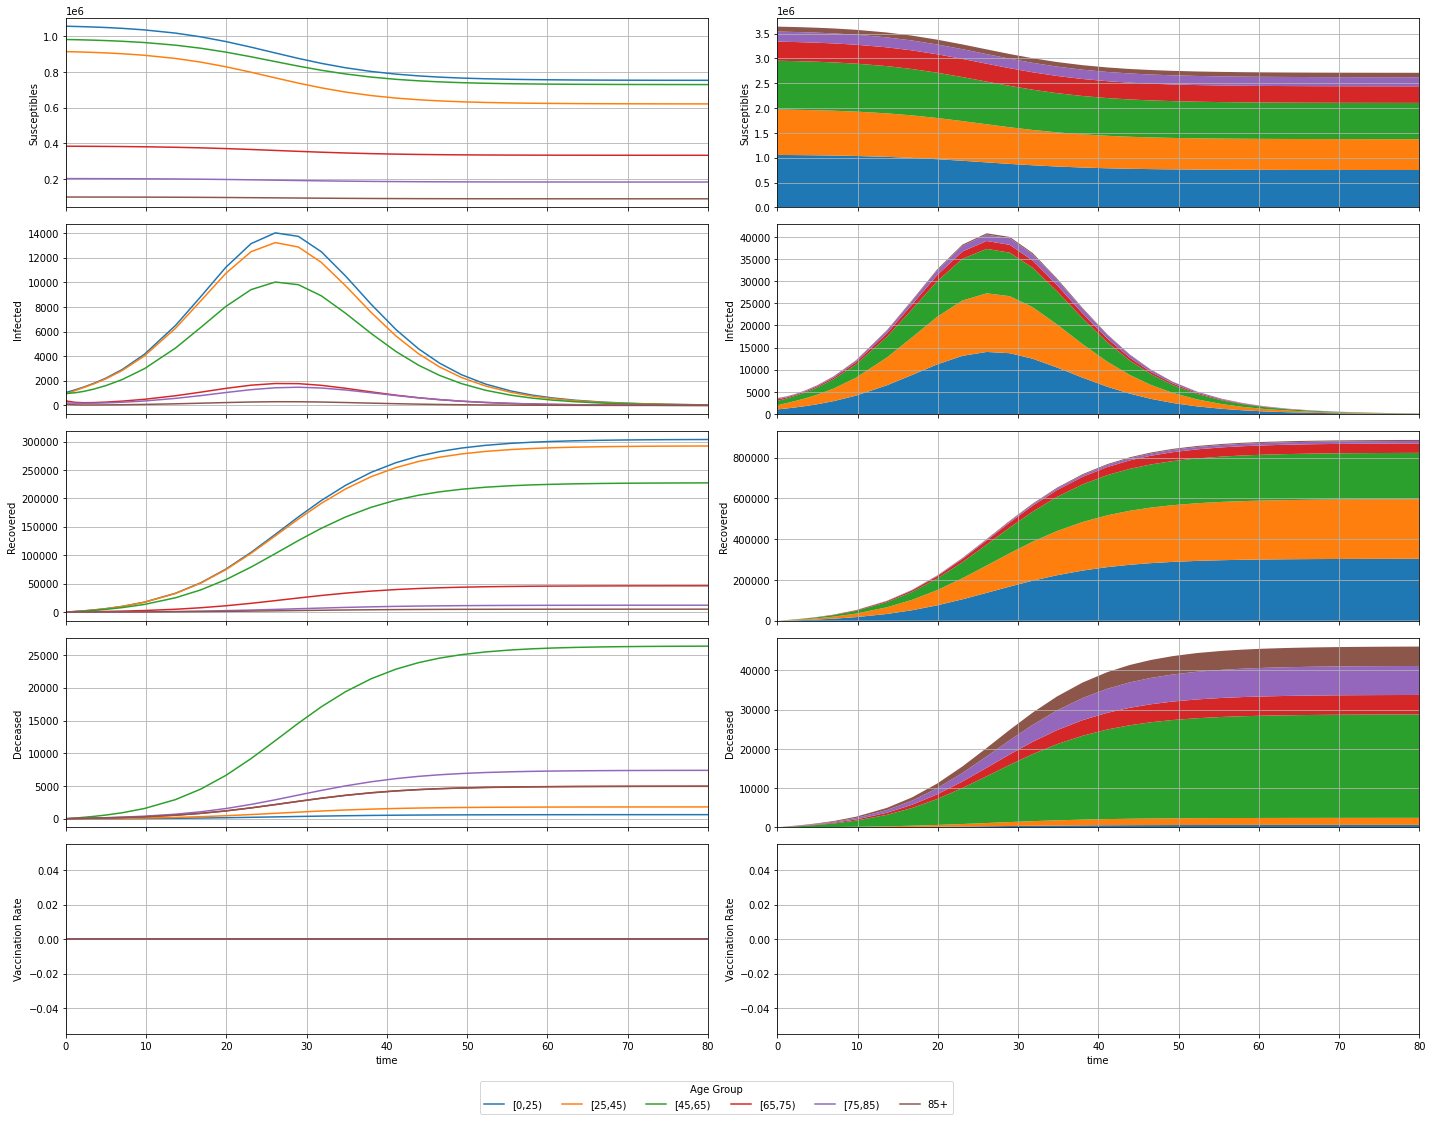
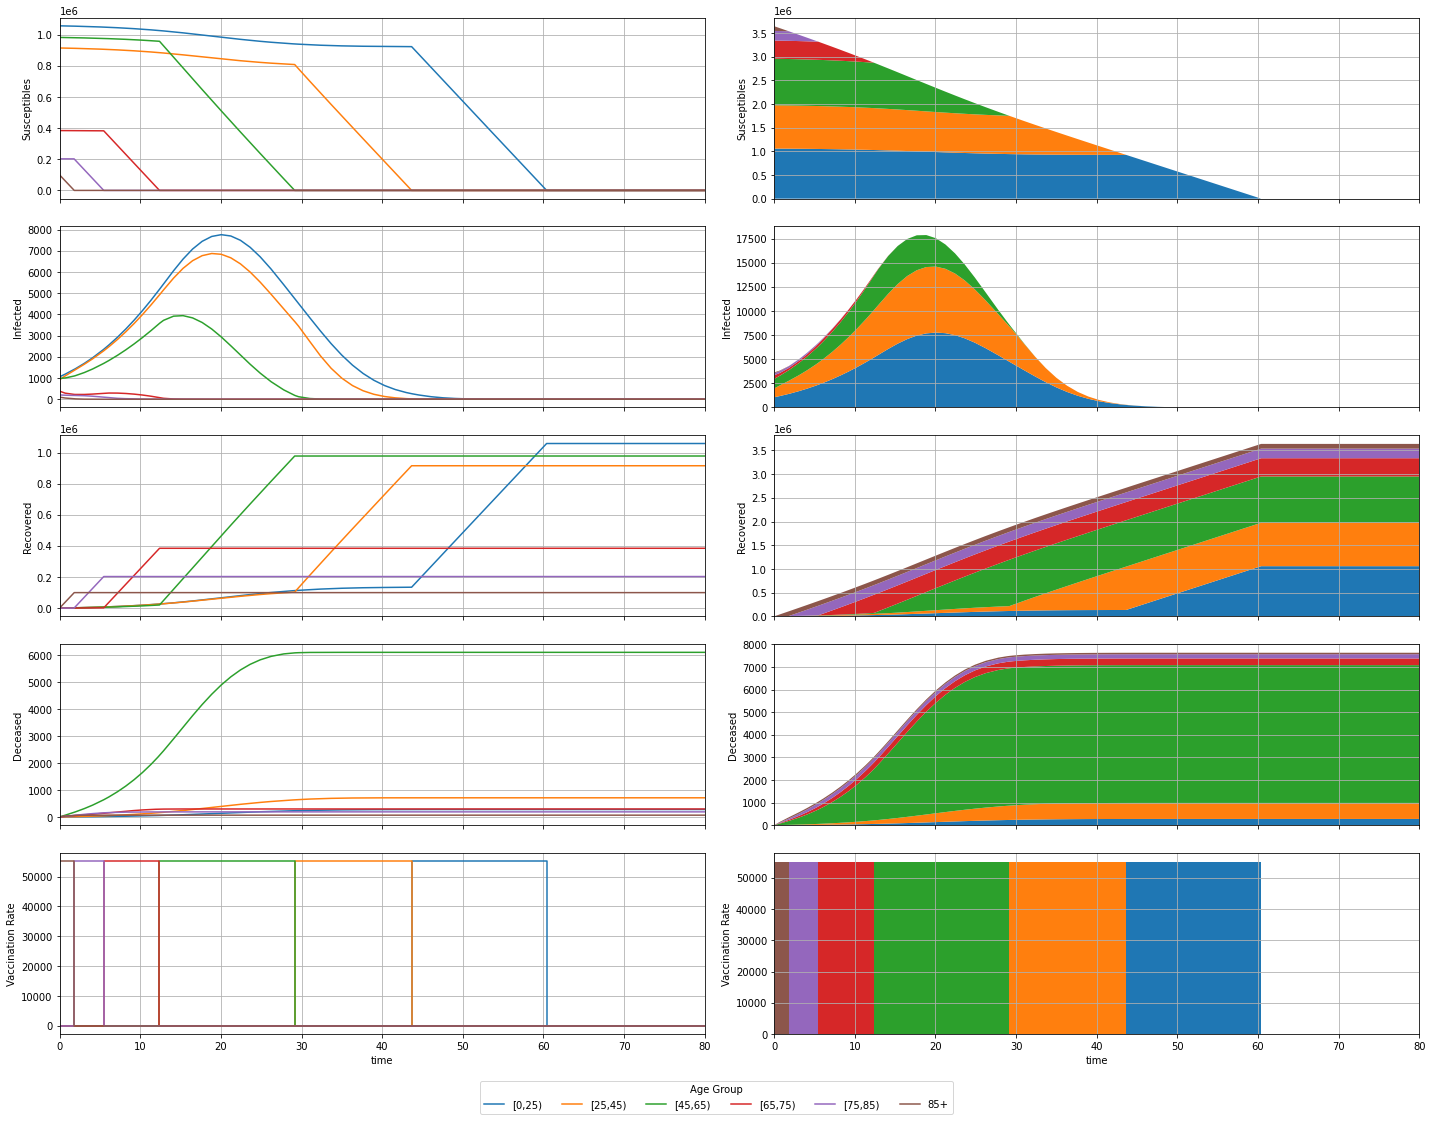
Convert README.ipynb

diff --git a/README.md b/README.md
@@ -71,95 +71,35 @@ $$
 
 ```python
 import numpy as np
-import csv
+from helpers import *
 
-P = np.array([1058304,915796,983789,384803,203035,99516])
+P, I_0, S_0, R_0, D_0, l, C, g_R, g_D, u_max = definitions()
+y_0 = wrap(S_0, I_0, R_0, D_0)
 n_a = len(P)
 
-I_0 = 0.1/100*P
-S_0 = P - I_0
-R_0 = np.zeros(n_a)
-D_0 = np.zeros(n_a)
+t_span = [0, 80]
 
-l   = np.repeat(0.05, n_a)
-g_R = np.array([0.7657411   ,0.7842402  ,0.8012127 ,0.9018488 ,0.2802379 ,0.5864928 ])
-g_D = np.array([0.0015683025,0.004833996,0.09288585,0.09685946,0.17079121,0.56594825])
+def system_continuous(t, y, u, u_max, l, C, g_R, g_D):
+  S, I, R, D = unwrap(y)
+  dSdt = - l * S * (C @ I) - u(t, y, u_max)
+  dIdt = l * S * (C @ I) - (g_R + g_D) * I
+  dRdt = g_R * I + u(t, y, u_max)
+  dDdt = g_D * I
+  return wrap(dSdt, dIdt, dRdt, dDdt)
 
-with open("./contact.csv", 'r') as f:
-  reader = csv.reader(f)
-  data = list(reader)
-C = np.array(data, dtype=float)
+def system_discrete(t, y, u, u_max, l, C, g_R, g_D):
+  S, I, R, D = unwrap(y)
+  S_ = S - l * S * (C @ I) - u(t, y, u_max)
+  I_ = I + l * S * (C @ I) - (g_R + g_D) * I
+  R_ = R + g_R * I + u(t, y, u_max)
+  D_ = D + g_D * I
+  return wrap(S_, I_, R_, D_)
 
-U_max = 55191
-
-groups = ['[0,25)', '[25,45)', '[45,65)', '[65,75)', '[75,85)', '85+']
-
-P_total = sum(P)
-print(f'Population Total: {P_total:.0f}')
+print(f'Population Total: {sum(P):.0f}')
 ```
 
     Population Total: 3645243
 
-
-### Helpers
-
-
-```python
-import matplotlib.pyplot as plt
-
-def unwrap(y):
-  S = y[0*n_a:1*n_a]
-  I = y[1*n_a:2*n_a]
-  R = y[2*n_a:3*n_a]
-  D = y[3*n_a:4*n_a]
-  return S, I, R, D
-
-def wrap(S, I, R, D):
-  return np.concatenate([S, I, R, D])
-
-def plot(t, y, u, discrete=False):
-  S, I, R, D = unwrap(y)
-
-  fig, ax = plt.subplots(5, 2, facecolor=(1,1,1,1), figsize=(20,15), sharex=True)
-
-  if discrete:
-    ds = 'steps-post'
-    step = 'post'
-  else:
-    ds = 'default'
-    step = None
-
-  for i in range(n_a):
-    ax[0,0].plot(t, S[i], drawstyle=ds)
-    ax[1,0].plot(t, I[i], drawstyle=ds)
-    ax[2,0].plot(t, R[i], drawstyle=ds)
-    ax[3,0].plot(t, D[i], drawstyle=ds)
-    ax[4,0].plot(t, u[i], drawstyle=ds)
-
-  ax[0,1].stackplot(t, S, step=step)
-  ax[1,1].stackplot(t, I, step=step)
-  ax[2,1].stackplot(t, R, step=step)
-  ax[3,1].stackplot(t, D, step=step)
-  ax[4,1].stackplot(t, u, step=step)
-
-  for i in range(2):
-    ax[0,i].set_ylabel('Susceptibles')
-    ax[1,i].set_ylabel('Infected')
-    ax[2,i].set_ylabel('Recovered')
-    ax[3,i].set_ylabel('Deceased')
-    ax[4,i].set_ylabel('Vaccination Rate')
-
-  for ax_ in ax.flatten():
-    ax_.set_xlim((t[0],t[-1]))
-    ax_.grid()
-
-  for ax_ in ax[-1,:]:
-    ax_.set_xlabel('time')
-
-  fig.tight_layout()
-  fig.legend(groups, title='Age Group',ncols=n_a, loc="upper center", bbox_to_anchor=(0.5, 0))
-  plt.show()
-```
 
 ## Continous Simulation
 
@@ -169,40 +109,23 @@ def plot(t, y, u, discrete=False):
 ```python
 from scipy.integrate import solve_ivp
 
-def u(t, y):
+def control(t, y, max):
   return np.zeros(n_a)
 
-def system(t, y, l, C, g_R, g_D):
-  S, I, R, D = unwrap(y)
-  dSdt = - l * S * (C @ I) - u(t, y)
-  dIdt = l * S * (C @ I) - (g_R + g_D) * I
-  dRdt = g_R * I + u(t, y)
-  dDdt = g_D * I
-  return wrap(dSdt, dIdt, dRdt, dDdt)
-
-t_span = [0, 80]
-y_0 = wrap(S_0, I_0, R_0, D_0)
-
-sol = solve_ivp(system, t_span, y_0, args=(l, C, g_R, g_D))
+sol = solve_ivp(system_continuous, t_span, y_0, args=(control, u_max, l, C, g_R, g_D))
 assert(sol.success)
 
 t = sol.t
 y = sol.y
 S, I, R, D = unwrap(y)
+u = recover_control(t, y, control, u_max)
 
-U = np.zeros(S.shape)
-for i, t_ in enumerate(t):
-  y_ = y[:,i]
-  U[:,i] = u(t_, y_)
-
-plot(t, y, U)
-
-D_total = sum(D[:,-1])
-print(f'Deceased Total: {D_total:.0f}')
+plot(t, y, u)
+print(f'Deceased Total: {sum(D[:,-1]):.0f}')
 ```
 
 
-![png](README_files/README_12_0.png)
+![png](README_files/README_10_0.png)
 
 
     Deceased Total: 46089
@@ -214,46 +137,29 @@ print(f'Deceased Total: {D_total:.0f}')
 ```python
 from scipy.integrate import solve_ivp
 
-def u(t, y):
+def control(t, y, u_max):
   S, I, R, D = unwrap(y)
   u = np.zeros(n_a)
   for i in reversed(range(n_a)):
     if S[i] > 0:
-      u[i] = U_max
+      u[i] = u_max
       break
   return u
 
-def system(t, y, l, C, g_R, g_D):
-  S, I, R, D = unwrap(y)
-  dSdt = - l * S * (C @ I) - u(t, y)
-  dIdt = l * S * (C @ I) - (g_R + g_D) * I
-  dRdt = g_R * I + u(t, y)
-  dDdt = g_D * I
-  return wrap(dSdt, dIdt, dRdt, dDdt)
-
-t_span = [0, 80]
-y_0 = wrap(S_0, I_0, R_0, D_0)
-
-sol = solve_ivp(system, t_span, y_0, args=(l, C, g_R, g_D))
+sol = solve_ivp(system_continuous, t_span, y_0, args=(control, u_max, l, C, g_R, g_D))
 assert(sol.success)
 
 t = sol.t
 y = sol.y
 S, I, R, D = unwrap(y)
+u = recover_control(t, y, control, u_max)
 
-U = np.zeros(S.shape)
-for i, t_ in enumerate(t):
-  y_ = y[:,i]
-  U[:,i] = u(t_, y_)
-
-plot(t, y, U)
-
-D_total = sum(D[:,-1])
-print(f'Deceased Total: {D_total:.0f}')
+plot(t, y, u)
+print(f'Deceased Total: {sum(D[:,-1]):.0f}')
 ```
 
 
-![png](README_files/README_14_0.png)
+![png](README_files/README_12_0.png)
 
 
     Deceased Total: 7633
@@ -265,49 +171,32 @@ print(f'Deceased Total: {D_total:.0f}')
 ```python
 from scipy.integrate import solve_ivp
 
-def u(t, y):
+def u(t, y, u_max):
   S, I, R, D = unwrap(y)
   u = np.zeros(n_a)
-  remaining = U_max
+  remaining = u_max
   for i in reversed(range(n_a)):
     u[i] = min([S[i], remaining])
     remaining = remaining - u[i]
   return u
 
-def system(t, y, l, C, g_R, g_D):
-  S, I, R, D = unwrap(y)
-  dSdt = - l * S * (C @ I) - u(t, y)
-  dIdt = l * S * (C @ I) - (g_R + g_D) * I
-  dRdt = g_R * I + u(t, y)
-  dDdt = g_D * I
-  return wrap(dSdt, dIdt, dRdt, dDdt)
-
-t_span = [0, 80]
-y_0 = wrap(S_0, I_0, R_0, D_0)
-
-sol = solve_ivp(system, t_span, y_0, args=(l, C, g_R, g_D))
+sol = solve_ivp(system_continuous, t_span, y_0, args=(control, u_max, l, C, g_R, g_D))
 assert(sol.success)
 
 t = sol.t
 y = sol.y
 S, I, R, D = unwrap(y)
+u = recover_control(t, y, control, u_max)
 
-U = np.zeros(S.shape)
-for i, t_ in enumerate(t):
-  y_ = y[:,i]
-  U[:,i] = u(t_, y_)
-
-plot(t, y, U)
-
-D_total = sum(D[:,-1])
-print(f'Deceased Total: {D_total:.0f}')
+plot(t, y, u)
+print(f'Deceased Total: {sum(D[:,-1]):.0f}')
 ```
 
 
-![png](README_files/README_16_0.png)
+![png](README_files/README_14_0.png)
 
 
-    Deceased Total: 7616
+    Deceased Total: 7633
 
 
 ## Discrete Simulation
@@ -316,42 +205,20 @@ print(f'Deceased Total: {D_total:.0f}')
 
 
 ```python
-def u(t, y):
+def control(t, y, u_max):
   return np.zeros(n_a)
 
-def system(t, y, l, C, g_R, g_D):
-  S, I, R, D = unwrap(y)
-  S_ = S - l * S * (C @ I) - u(t, y)
-  I_ = I + l * S * (C @ I) - (g_R + g_D) * I
-  R_ = R + g_R * I + u(t, y)
-  D_ = D + g_D * I
-  return wrap(S_, I_, R_, D_)
-
-t = np.linspace(0, 80, 81)
-y_0 = wrap(S_0, I_0, R_0, D_0)
-
-y = np.empty((4*n_a,81))
-for i, t_ in enumerate(t):
-  if i == 0:
-    y[:,i] = y_0
-  else:
-    y[:,i] = system(t_, y[:,i-1], l, C, g_R, g_D)
+t, y = solve_ivp_discrete(system_discrete, t_span, y_0, args=(control, u_max, l, C, g_R, g_D))
 
 S, I, R, D = unwrap(y)
+u = recover_control(t, y, control, u_max)
 
-U = np.zeros(S.shape)
-for i, t_ in enumerate(t):
-  y_ = y[:,i]
-  U[:,i] = u(t_, y_)
-
-plot(t, y, U, discrete=True)
-
-D_total = sum(D[:,-1])
-print(f'Deceased Total: {D_total:.0f}')
+plot(t, y, u, discrete=True)
+print(f'Deceased Total: {sum(D[:,-1]):.0f}')
 ```
 
 
-![png](README_files/README_19_0.png)
+![png](README_files/README_17_0.png)
 
 
     Deceased Total: 47115
@@ -361,48 +228,26 @@ print(f'Deceased Total: {D_total:.0f}')
 
 
 ```python
-def u(t, y):
+def control(t, y, u_max):
   S, I, R, D = unwrap(y)
   u = np.zeros(n_a)
-  remaining = U_max
+  remaining = u_max
   for i in reversed(range(n_a)):
     u[i] = min([S[i], remaining])
     remaining = remaining - u[i]
   return u
 
-def system(t, y, l, C, g_R, g_D):
-  S, I, R, D = unwrap(y)
-  S_ = S - l * S * (C @ I) - u(t, y)
-  I_ = I + l * S * (C @ I) - (g_R + g_D) * I
-  R_ = R + g_R * I + u(t, y)
-  D_ = D + g_D * I
-  return wrap(S_, I_, R_, D_)
-
-t = np.linspace(0, 80, 81)
-y_0 = wrap(S_0, I_0, R_0, D_0)
-
-y = np.empty((4*n_a,81))
-for i, t_ in enumerate(t):
-  if i == 0:
-    y[:,i] = y_0
-  else:
-    y[:,i] = system(t_, y[:,i-1], l, C, g_R, g_D)
+t, y = solve_ivp_discrete(system_discrete, t_span, y_0, args=(control, u_max, l, C, g_R, g_D))
 
 S, I, R, D = unwrap(y)
+u = recover_control(t, y, control, u_max)
 
-U = np.zeros(S.shape)
-for i, t_ in enumerate(t):
-  y_ = y[:,i]
-  U[:,i] = u(t_, y_)
-
-plot(t, y, U, discrete=True)
-
-D_total = sum(D[:,-1])
-print(f'Deceased Total: {D_total:.0f}')
+plot(t, y, u, discrete=True)
+print(f'Deceased Total: {sum(D[:,-1]):.0f}')
 ```
 
 
-![png](README_files/README_21_0.png)
+![png](README_files/README_19_0.png)
 
 
     Deceased Total: 7593
